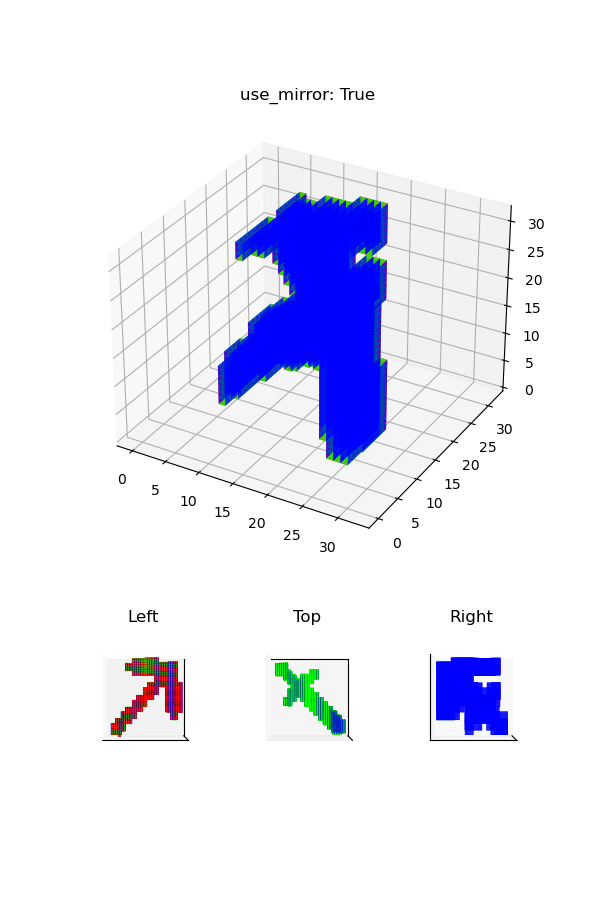
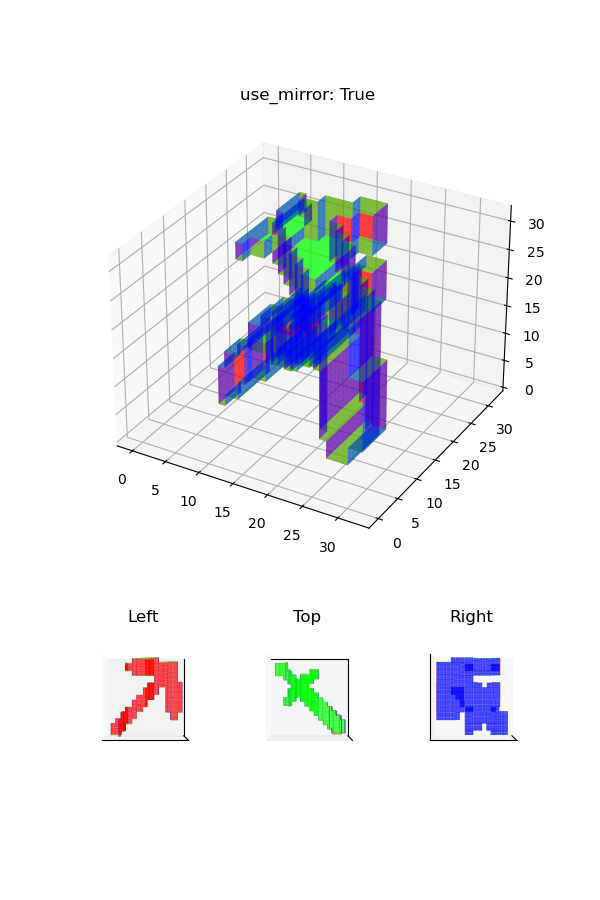
Remove wasted faces

diff --git a/src/mesh.py b/src/mesh.py
@@ -1,3 +1,5 @@
+from fnmatch import translate
+
 import matplotlib.pyplot as plt
 import numpy as np
 import stl
@@ -9,71 +11,75 @@ else:
     from .voxel import IllusionalVoxels
 
 
-def build_cube(translation, direction):
-    data = np.zeros(2, dtype=stl.mesh.Mesh.dtype)
+def build_cube(translation, orientation):
+    data = np.zeros(4, dtype=stl.mesh.Mesh.dtype)
+    base = np.array([[0, 0, 0], [1, 0, 0], [0, 0, 1], [1, 0, 0], [1, 0, 1]])
 
-    assert direction in [view["name"] for view in IllusionalVoxels.views]
-    if direction == "Left":
-        data["vectors"][0] = np.array([[0, 0, 0], [1, 0, 0], [1, 0, 1]])
-        data["vectors"][1] = np.array([[0, 0, 0], [0, 0, 1], [1, 0, 1]])
-    if direction == "Top":
-        data["vectors"][0] = np.array([[0, 1, 1], [1, 0, 1], [0, 0, 1]])
-        data["vectors"][1] = np.array([[1, 0, 1], [0, 1, 1], [1, 1, 1]])
-    if direction == "Right":
-        data["vectors"][0] = np.array([[1, 0, 0], [1, 0, 1], [1, 1, 0]])
-        data["vectors"][1] = np.array([[1, 1, 1], [1, 0, 1], [1, 1, 0]])
+    shift = IllusionalVoxels.views[orientation]["shift"]
+    vertexes = np.roll(base, shift, axis=1)
+    data["vectors"][0] = vertexes[:3]
+    data["vectors"][1] = vertexes[2:]
 
-    center = 1 / 2
-    data["vectors"] -= center
+    unit = np.zeros(3)
+    unit[(shift + 1) % 3] = 1
+    for i in range(2):
+        data["vectors"][i + 2] = data["vectors"][i] + unit
+        data["attr"][i + 2] = 1
 
-    cube_front = stl.mesh.Mesh(data.copy())
-    cube_back = stl.mesh.Mesh(data.copy())
+    data["vectors"] += np.array(translation)
 
-    if direction == "Left":
-        cube_back.rotate([center, 0.0, 0.0], np.radians(180))
-    if direction == "Top":
-        cube_back.rotate([0.0, center, 0.0], np.radians(180))
-    if direction == "Right":
-        cube_back.rotate([0.0, 0.0, center], np.radians(180))
+    return data
 
-    cube = stl.mesh.Mesh(np.concatenate([cube_front.data.copy(), cube_back.data.copy()]))
-    cube.translate(np.array(translation) + center)
-    return cube
+
+def cancel_triangles(data):
+    polygons = data["vectors"].sum(axis=1)
+    idx = np.lexsort(polygons.T)
+    diff = np.all(polygons[idx[:-1]] == polygons[idx[1:]], axis=1)
+    diff = np.concatenate(([False], diff, [False]))
+    dup = diff[:-1] | diff[1:]
+    return data[idx[~dup]]
 
 
 class IllusionalMesh(IllusionalVoxels):
     def __init__(self, iv_or_path):
         if type(iv_or_path) == str and iv_or_path.endswith(".stl"):
-            print(f"Loading: {iv_or_path}")
             self.mesh = stl.mesh.Mesh.from_file(iv_or_path)
-            print(f"Loaded: {iv_or_path}")
+            print(f"Loaded (Mesh): {iv_or_path}")
             self.path = iv_or_path
         elif type(iv_or_path) == IllusionalVoxels:
             for key in dir(iv_or_path):
-                if key.endswith("__") or key in dir(self):
+                if key in dir(self):
                     continue
                 setattr(self, key, getattr(iv_or_path, key))
-            self.mesh = self.__build_mesh_by_direction()
+            self.mesh = self.__build_mesh_by_orientation()
+            print(f"Created (Mesh): {self.name}")
             self.path = None
         else:
             raise TypeError
 
-    def __build_mesh_by_direction(self):
-        self.mesh_by_direction = {}
-        for view in self.views:
-            self.mesh_by_direction[view["name"]] = stl.mesh.Mesh(
-                np.concatenate(
-                    [
-                        build_cube(coordinate, view["name"]).data.copy()
-                        for coordinate in zip(*np.where(self.voxels == 1))
-                    ]
-                )
+    def __build_mesh_by_orientation(self):
+        self.triangles_by_orientation = {}
+        for orientation in self.views:
+            triangles = np.concatenate(
+                [
+                    build_cube(coordinate, orientation)
+                    for coordinate in zip(*np.where(self.voxels == 1))
+                ]
             )
-        return stl.mesh.Mesh(
-            np.concatenate([mesh.data.copy() for mesh in self.mesh_by_direction.values()])
+            triangles = cancel_triangles(triangles)
+            for triangle in triangles:
+                if triangle["attr"]:
+                    arr = triangle["vectors"]
+                    arr[1, :], arr[2, :] = arr[2, :], arr[1, :].copy()
+            self.triangles_by_orientation[orientation] = triangles
+        mesh = stl.mesh.Mesh(
+            np.concatenate([triangles for triangles in self.triangles_by_orientation.values()])
         )
+        assert mesh.is_closed()
+        return mesh
 
     def save(self):
+        print(f"Saving: {self.name}.stl")
         self.mesh.save(f"{self.name}.stl")
         print(f"Saved: {self.name}.stl")
 
@@ -81,22 +87,23 @@ class IllusionalMesh(IllusionalVoxels):
         if self.path:
             self.render(ax)
         else:
-            facecolor = [0, 0, 0, 0.8]
-            for i, view in enumerate(self.views):
+            # color-coded
+            facecolor = [0, 0, 0, 0.7]
+            for i, orientation in enumerate(self.views):
                 facecolor[i] = 1
                 ax.add_collection3d(
                     Poly3DCollection(
-                        self.mesh_by_direction[view["name"]].vectors, facecolor=facecolor
+                        self.triangles_by_orientation[orientation]["vectors"],
+                        facecolor=facecolor,
+                        edgecolor=[0.01] * 3 + [0.1],
                     )
                 )
                 facecolor[i] = 0
         scale = self.mesh.points.flatten()
         ax.auto_scale_xyz(scale, scale, scale)
 
-    def __getitem__(self, i):
-        return self.views[i]
-
     def visualize(self):
+        print("Rendering (Mesh):", self.path or self.name)
         plt.figure(figsize=(6, 9))
 
         ax = plt.subplot2grid((3, 3), (0, 0), rowspan=2, colspan=3, projection="3d")
@@ -106,9 +113,9 @@ class IllusionalMesh(IllusionalVoxels):
             ax.set_title(f"use_mirror: {self.use_mirror}")
         self.__visualize(ax)
 
-        for i, d in enumerate(self):
+        for i, orientation in enumerate(self.views):
             ax = plt.subplot2grid((3, 3), (2, i), projection="3d")
-            self._get_modified_axes(ax, d)
+            self._get_modified_axes(ax, orientation)
             self.__visualize(ax)
 
     def render(self, ax):
@@ -126,6 +133,7 @@ if __name__ == "__main__":
         im.visualize()
         if save_fig:
             fig_name = save_fig
+            print("Saving:", fig_name)
             plt.savefig(fig_name)
             print("Saved:", fig_name)
         else:

diff --git a/src/voxel.py b/src/voxel.py
@@ -1,13 +1,15 @@
+import collections
+
 import matplotlib.pyplot as plt
 import numpy as np
 
 
 class IllusionalVoxels:
-    views = [
-        {"elev": 0, "azim": -90, "name": "Left"},
-        {"elev": 90, "azim": -90, "name": "Top"},
-        {"elev": 0, "azim": 0, "name": "Right"},
-    ]
+    views = collections.OrderedDict(
+        Left={"elev": 0, "azim": -90, "shift": 0},
+        Top={"elev": 90, "azim": -90, "shift": 1},
+        Right={"elev": 0, "azim": 0, "shift": 2},
+    )
 
     def __init__(self, size, use_mirror=True, name=None):
         self.size = size
@@ -58,30 +60,31 @@ class IllusionalVoxels:
         else:
             self.colors[self.voxels] = [0.2, 0.5, 0.1, 1]
 
+        print("Created (Voxel):", self.name)
         return self
 
     def __getitem__(self, i):
         if i == 0:
-            return self.has_cube1, self.cube1, self.views[0]
+            return self.has_cube1, self.cube1, "Left"
         elif i == 1:
-            return self.has_cube2, self.cube2, self.views[1]
+            return self.has_cube2, self.cube2, "Top"
         elif i == 2:
-            return self.has_cube3, self.cube3, self.views[2]
+            return self.has_cube3, self.cube3, "Right"
         else:
             raise IndexError
 
     @classmethod
-    def _get_modified_axes(self, ax, d=None):
+    def _get_modified_axes(self, ax, orientation=None):
         ax.set_box_aspect((1, 1, 1))
-        ax.set_xticks([])
-        ax.set_yticks([])
-        ax.set_zticks([])
-        if d:
-            ax.view_init(d["elev"], d["azim"])
-            ax.set_title(d["name"])
+        ax.update({f"{c}ticks": [] for c in "xyz"})
+        if orientation:
+            view = self.views[orientation]
+            ax.view_init(view["elev"], view["azim"])
+            ax.set_title(orientation)
         return ax
 
     def visualize(self):
+        print("Rendering (Voxel):", self.name)
         plt.figure(figsize=(6, 9))
 
         ax = plt.subplot2grid((4, 3), (0, 0), rowspan=2, colspan=3, projection="3d")
@@ -91,13 +94,13 @@ class IllusionalVoxels:
         ax.set_box_aspect((1, 1, 1))
         ax.set_title(f"use_mirror: {self.use_mirror}")
 
-        for i, (exists, cube, d) in enumerate(self):
+        for i, (exists, cube, orientation) in enumerate(self):
             if exists:
                 ax_before = plt.subplot2grid((4, 3), (2, i), projection="3d")
                 self._get_modified_axes(ax_before)
                 ax_before.voxels(cube)
             ax_after = plt.subplot2grid((4, 3), (3, i), projection="3d")
-            self._get_modified_axes(ax_after, d)
+            self._get_modified_axes(ax_after, orientation)
             if self.color_coded:
                 ax_after.voxels(self.union, facecolors=self.colors)
             ax_after.voxels(self.voxels, facecolors=self.colors)
@@ -147,6 +150,7 @@ if __name__ == "__main__":
     iv.visualize()
     if save_fig:
         fig_name = save_fig
+        print("Saving:", fig_name)
         plt.savefig(fig_name)
         print("Saved:", fig_name)
     else:

diff --git a/main.py b/main.py
@@ -1,5 +1,6 @@
 import argparse
 import os
+import time
 
 from src.face import char_to_face, image_to_face
 from src.mesh import IllusionalMesh
@@ -74,15 +75,16 @@ if __name__ == "__main__":
         ).build(*faces, color_coded=args.color_coded)
         im = IllusionalMesh(iv)
         im.save()
-        if args.render:
+        if args.render or args.save_fig:
             iv.visualize()
             if args.save_fig:
                 fig_name = im.name + ".png"
+                print("Saving:", fig_name)
                 plt.savefig(fig_name)
                 print("Saved:", fig_name)
             else:
                 plt.show()
     else:
         path = get_path(args.object_name_or_path)
-        im = IllusionalMesh(path).visualize()
+        IllusionalMesh(path).visualize()
         plt.show()
